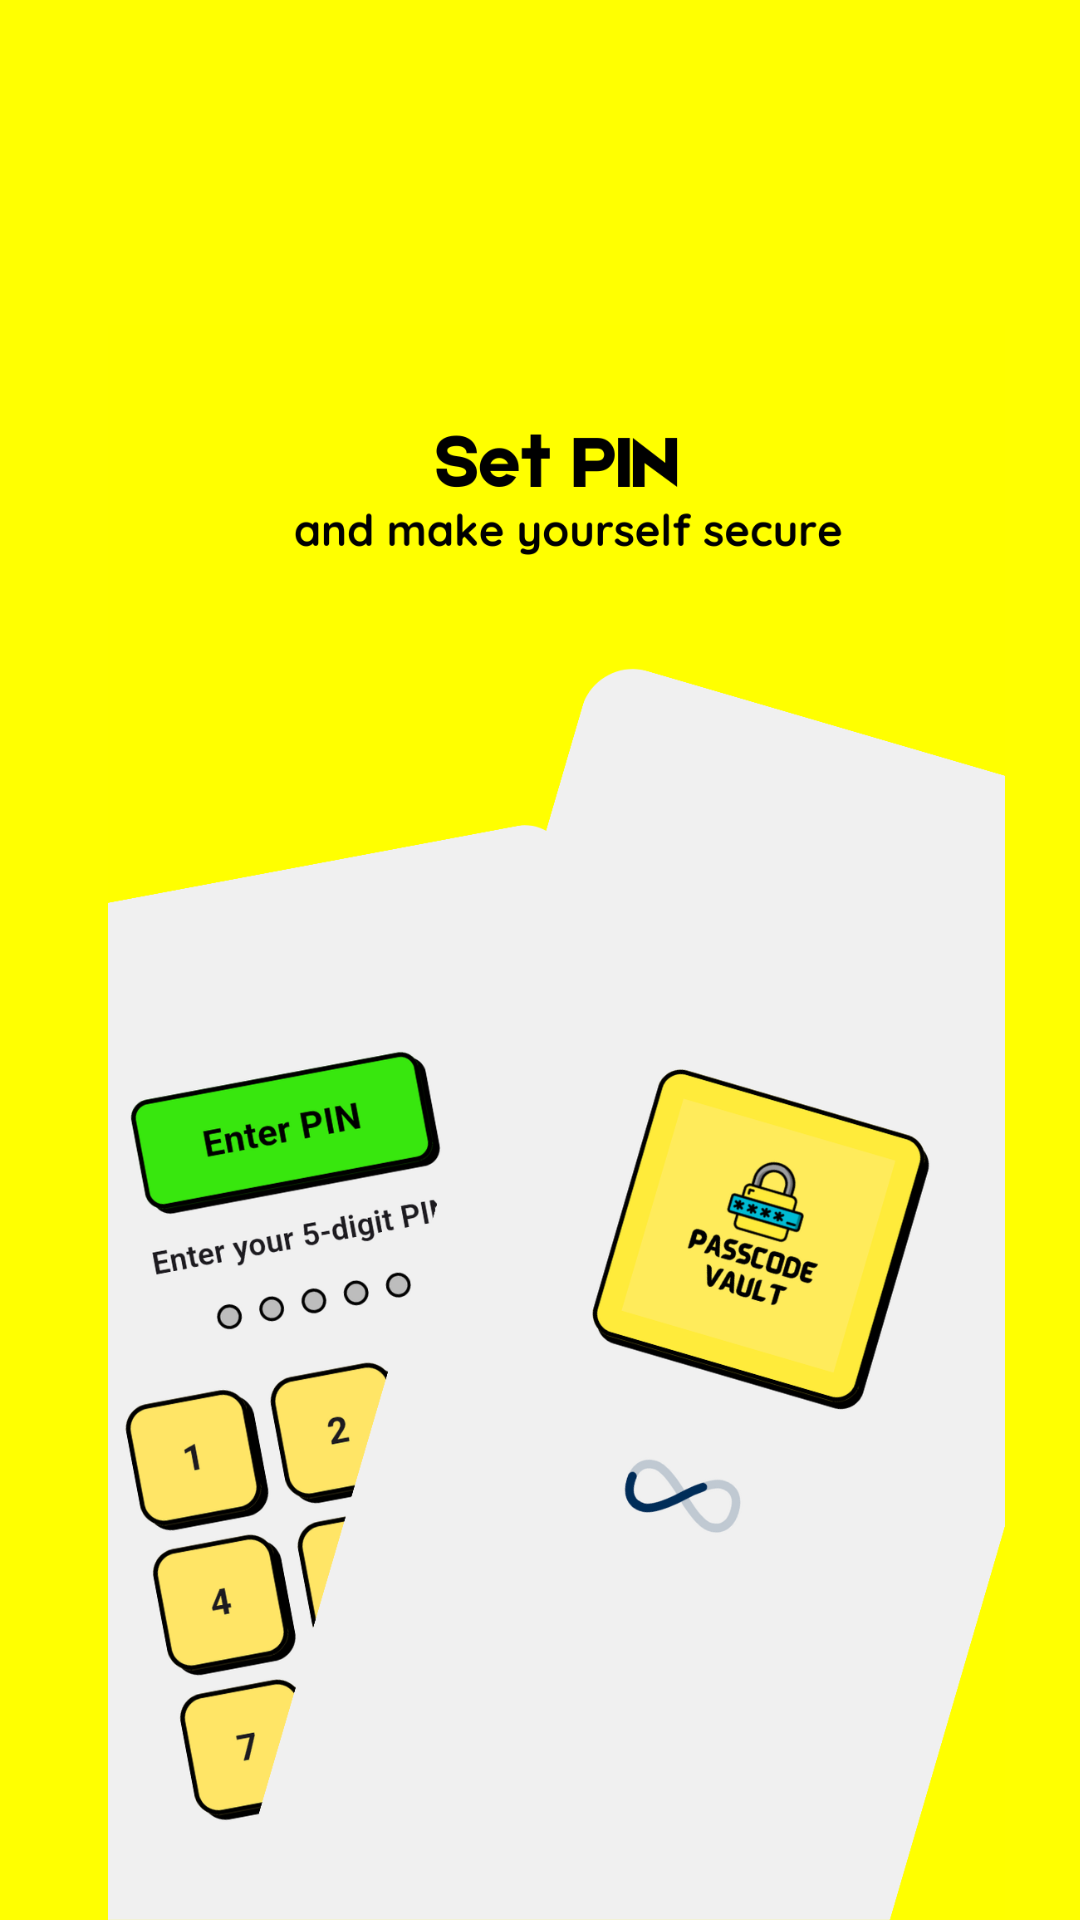
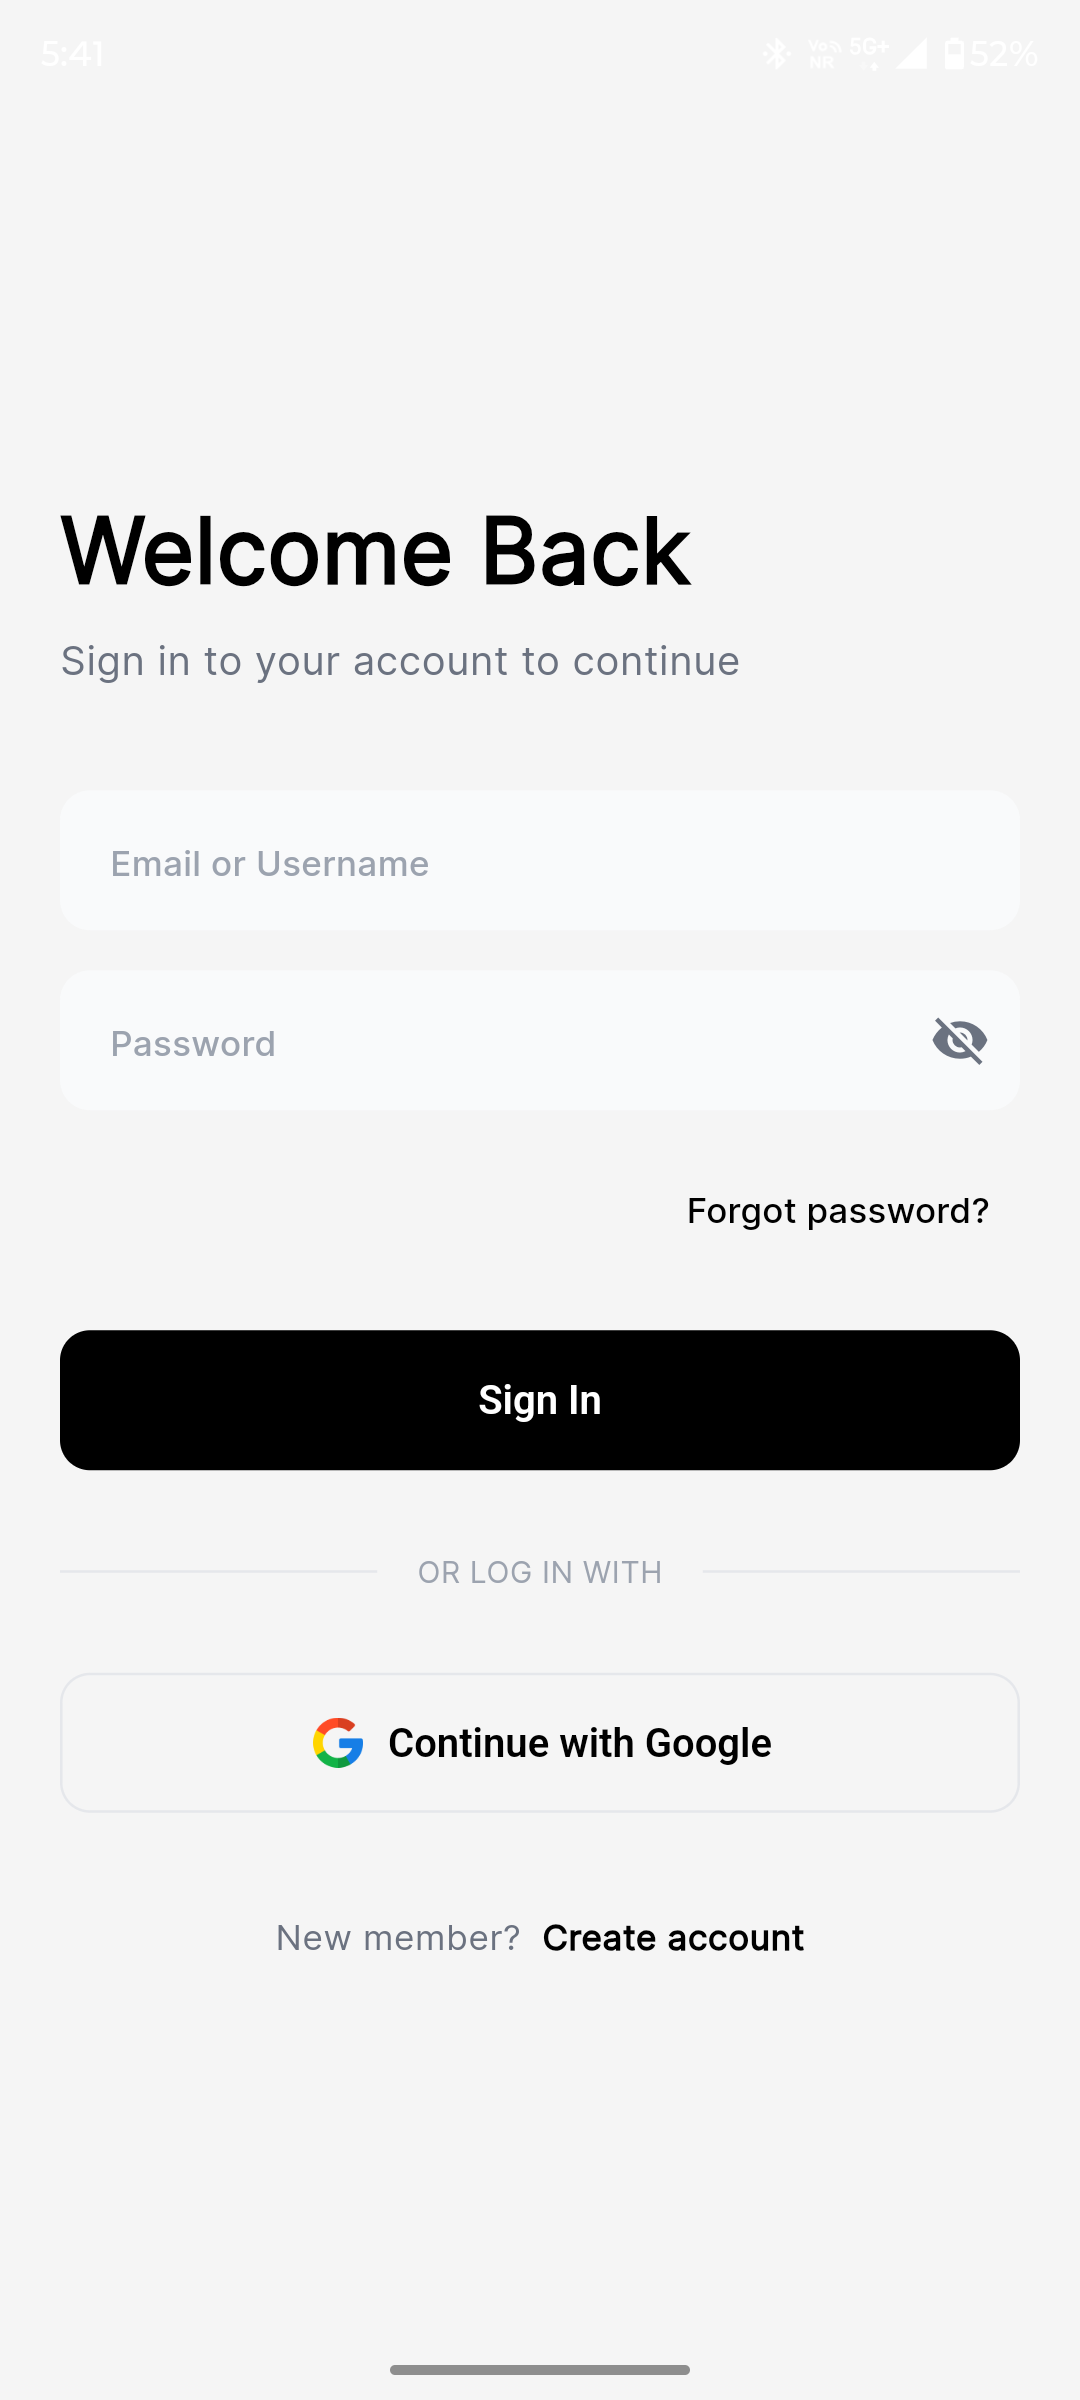
update latest application section

diff --git a/index.html b/index.html
@@ -217,8 +217,8 @@
             
             <div class="showcase-content">
                 <div class="showcase-text reveal-left">
-                    <h3>Passcode Vault</h3>
-                    <p>Protect your valuable credentials with Passcode Vault, a secure and encrypted vault designed to store passwords, login details, and sensitive information effortlessly.</p>
+                    <h3>Relact - Smart Contact Manager</h3>
+                    <p>Take control of your phonebook with Relact, the intelligent contact manager designed for privacy, organization, and efficiency. Whether you're meeting new people at networking events, managing temporary business connections, or just want to keep your personal contacts organized, Relact has you covered.</p>
                     
                     <div class="app-features">
                         <div class="feature-item">
@@ -226,8 +226,8 @@
                                 <i class="fas fa-lock"></i>
                             </div>
                             <div class="feature-text">
-                                <h4>Secure Credential Storage</h4>
-                                <p>Store passwords, login details, and sensitive information with end-to-end encryption, ensuring maximum security and privacy.</p>
+                                <h4>Smart Folders & Organization Group</h4>
+                                <p>Move your contacts into custom folders like "Work," "Family," "Gym Buddies," or "Events."</p>
                             </div>
                         </div>
                         
@@ -236,8 +236,8 @@
                                 <i class="fas fa-thumbs-up"></i>
                             </div>
                             <div class="feature-text">
-                                <h4>Seamless Access and Organization</h4>
-                                <p>Effortlessly organize and access your credentials through an intuitive and user-friendly interface.</p>
+                                <h4>Notes & Reminders Never forget a detail</h4>
+                                <p>Add personal notes to any contact or set reminders to call them back. Relact ensures you stay on top of your follow-ups and commitments."</p>
                             </div>
                         </div>
                         
@@ -246,15 +246,15 @@
                                 <i class="fas fa-check-circle"></i>
                             </div>
                             <div class="feature-text">
-                                <h4>Advanced Protection and Backup</h4>
-                                <p>Ensure data protection with multi-factor authentication and automated backups for peace of mind.</p>
+                                <h4>Your data security is our priority</h4>
+                                <p>Relact encrypts phone numbers before storing them, ensuring that your sensitive contact information remains private and secure.</p>
                             </div>
                         </div>
                     </div>
                     
                     <div class="app-links"> 
                         
-                        <a href="https://play.google.com/store/apps/details?id=com.passcode.manager" class="app-store-link">
+                        <a href="https://play.google.com/store/apps/details?id=com.relact.relact" class="app-store-link">
                             <i class="fab fa-google-play"></i>
                             <span>Google Play</span>
                         </a>